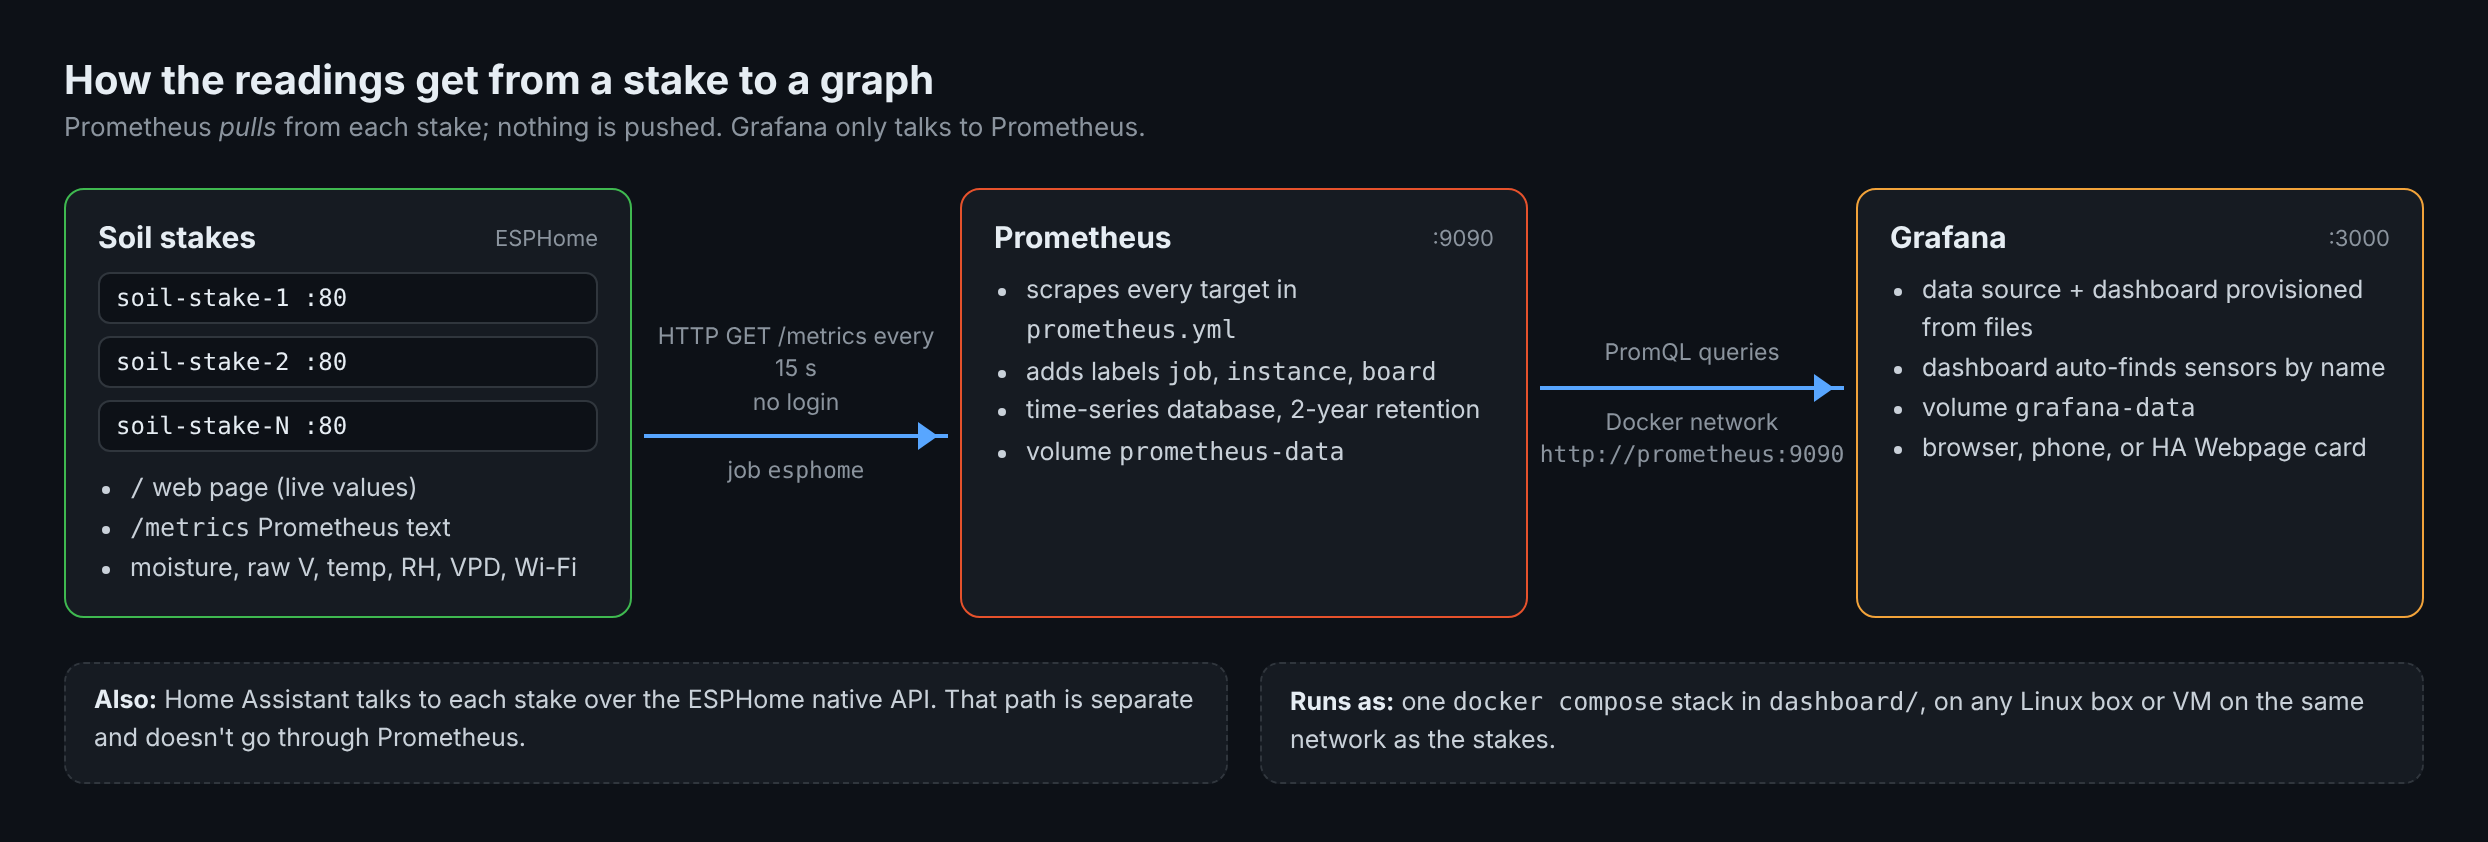
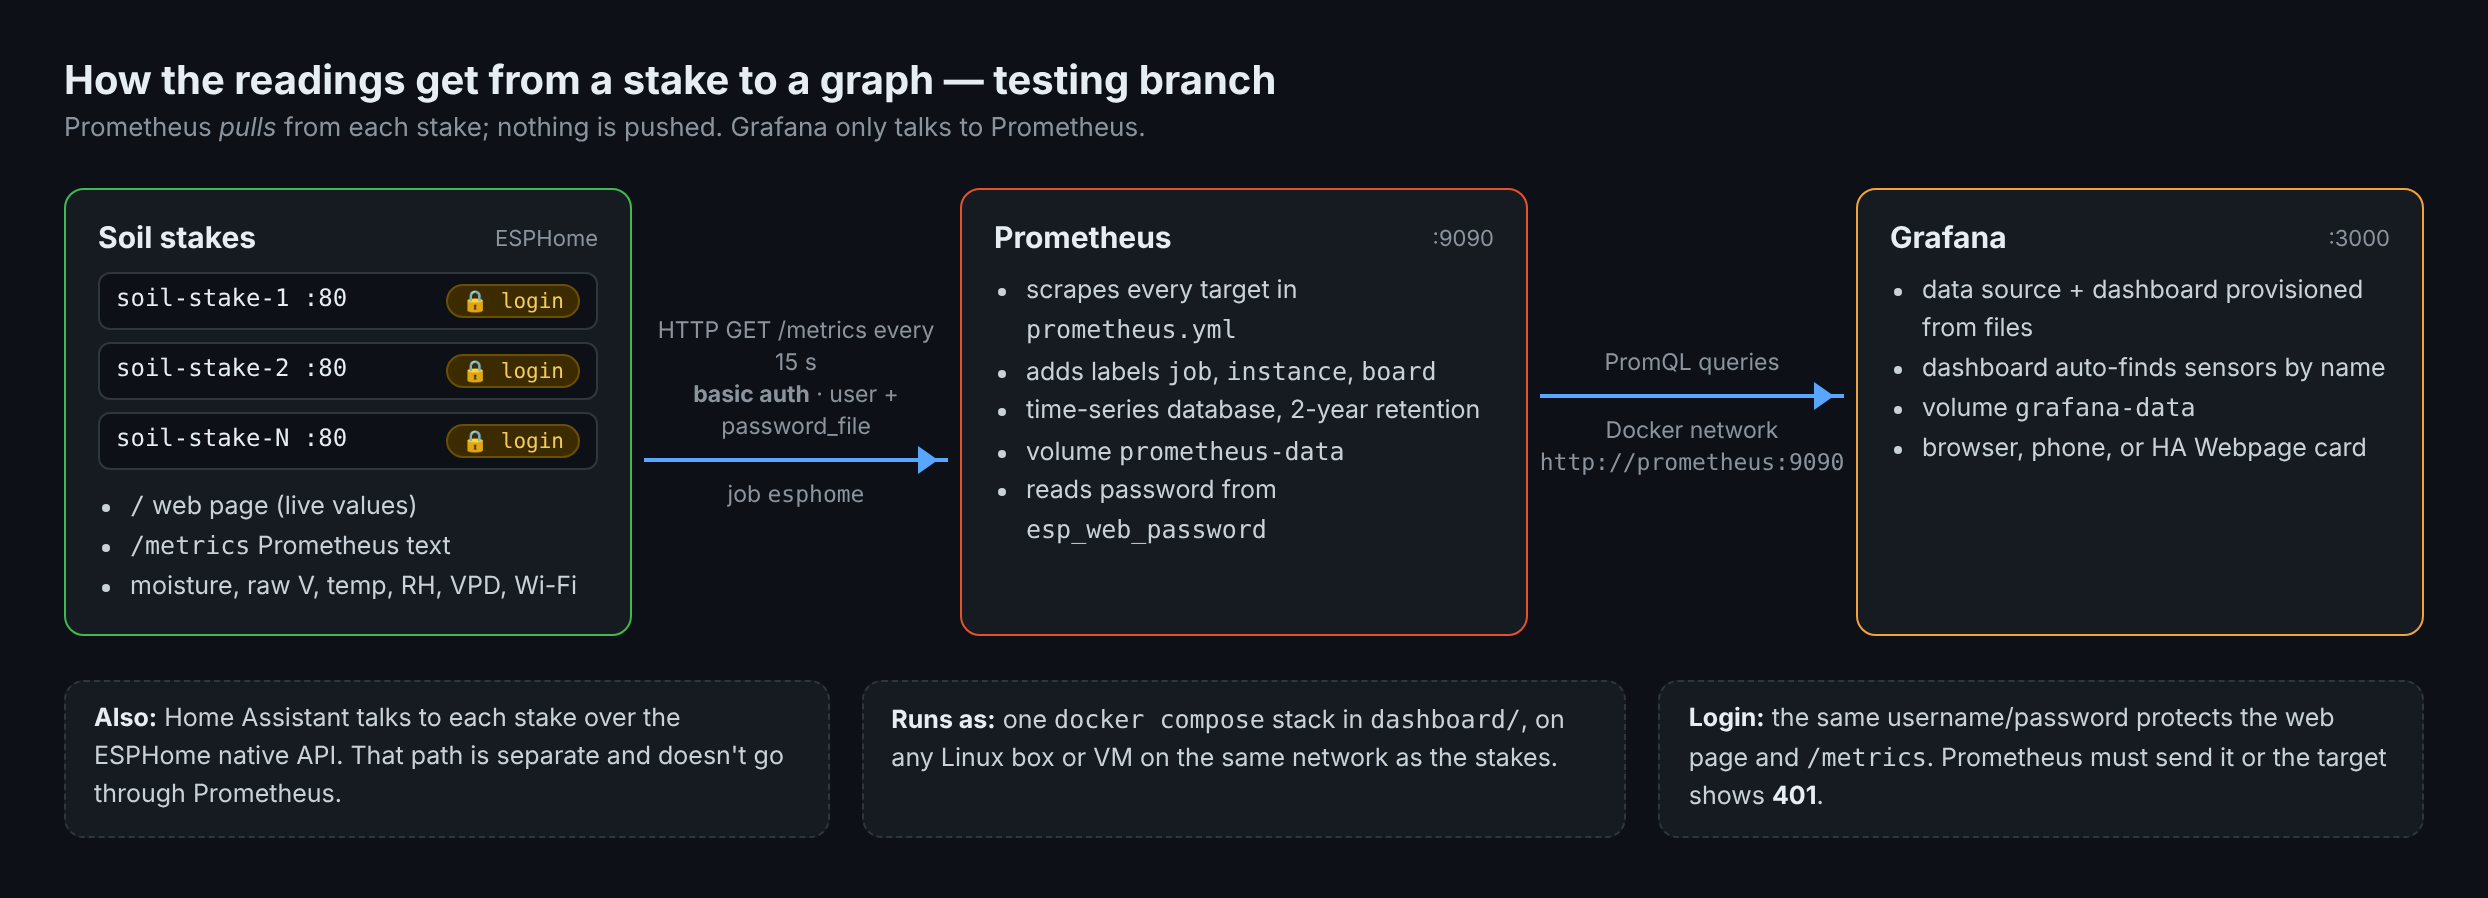
README (testing): document board login alongside Prometheus + Grafana
- Board login section: how it works, rollout order, hand checks,
  password changes; scrape config shows basic_auth + password_file
- Security notes, maintenance and troubleshooting cover 401 and the
  missing password file case
- Testing images: data flow with login, target health showing a 401
- Default login username changed from "grow" to "esp"

Claude-Session: https://claude.ai/code/session_01H1o7ttPdKKmLaGabGhFjTJ

diff --git a/README.md b/README.md
@@ -3,7 +3,7 @@
 > **This is the `testing` branch.** It holds changes that are written but not yet running on the stakes or the dashboard server. `main` matches what's deployed right now. To see exactly what's new here, compare the branches: [`main...testing`](../../compare/main...testing). Once a change is flashed and checked on real hardware, it gets merged into `main` with a pull request.
 >
 > **In testing now**
-> - **Board login:** the stake web page and `/metrics` require a username and password (`web_username` / `web_password` in `secrets.yaml`, HTTP basic auth). Prometheus logs in using a password file. Setup and checks are in [`dashboard/SETUP.md`](dashboard/SETUP.md#board-login-web-page--metrics).
+> - **Board login:** the stake web page and `/metrics` require a username and password (`web_username` / `web_password` in `secrets.yaml`, HTTP basic auth). Prometheus logs in using a password file. How it works, setup and checks: [Board login](#board-login-testing) below and [`dashboard/SETUP.md`](dashboard/SETUP.md#board-login-web-page--metrics).
 
 Wi-Fi soil moisture stakes. Each stake is a small board with an ESP32-C3, a capacitive soil probe and an AHT10 temperature/humidity sensor in a 3D printed case. Push it into the soil like a plant marker and plug in a USB cable. It reports soil moisture, temperature, humidity and VPD over Wi-Fi to ESPHome / Home Assistant and Prometheus, and the included Grafana stack graphs it.
 
@@ -11,7 +11,7 @@ Wi-Fi soil moisture stakes. Each stake is a small board with an ESP32-C3, a capa
 
 ![stake board in the case, KiCad 3D models](docs/images/kicad-3d.png)
 
-**Contents:** [What's in here](#whats-in-here) · [The stake](#the-stake) · [Setup](#setup) · [Calibrating](#calibrating) · [Data logging: Prometheus + Grafana](#data-logging-prometheus--grafana) ([Prometheus](#prometheus) · [Grafana](#grafana) · [Troubleshooting](#troubleshooting)) · [VPD](#vpd) · [Breadboard testing](#testing-on-a-breadboard)
+**Contents:** [What's in here](#whats-in-here) · [The stake](#the-stake) · [Setup](#setup) · [Calibrating](#calibrating) · [Data logging: Prometheus + Grafana](#data-logging-prometheus--grafana) ([Prometheus](#prometheus) · [Grafana](#grafana) · [Board login](#board-login-testing) · [Troubleshooting](#troubleshooting)) · [VPD](#vpd) · [Breadboard testing](#testing-on-a-breadboard)
 
 ---
 
@@ -130,7 +130,7 @@ The probe voltage goes **down** as the soil gets wetter. On the stake you're rea
 
 The stakes don't store any history themselves. A small Docker Compose stack in `dashboard/` does that:
 
-- **Prometheus** visits every stake every 15 seconds, reads its current values from `http://<stake>/metrics`, and keeps them in a time-series database for 2 years.
+- **Prometheus** visits every stake every 15 seconds, logs in, reads its current values from `http://<stake>/metrics`, and keeps them in a time-series database for 2 years.
 - **Grafana** reads from Prometheus and draws the dashboard: current values at the top, history graphs below.
 
 ![How readings flow from a stake to Prometheus to Grafana](docs/images/data-flow.png)
@@ -142,7 +142,8 @@ Prometheus *pulls* from the stakes. A stake never sends data anywhere on its own
 | File | What it does |
 |---|---|
 | `docker-compose.yml` | Runs Prometheus (port 9090) and Grafana (port 3000), with a named volume for each so data survives restarts and image updates |
-| `prometheus/prometheus.yml` | Scrape settings and the list of stakes to read |
+| `prometheus/prometheus.yml` | Scrape settings, the board login, and the list of stakes to read |
+| `prometheus/esp_web_password` | The board password Prometheus logs in with. You create it on the server; it's gitignored. `esp_web_password.example` shows the format |
 | `grafana/provisioning/datasources/prometheus.yml` | Connects Grafana to Prometheus automatically (no clicking through the UI) |
 | `grafana/provisioning/dashboards/dashboards.yml` | Tells Grafana to load every dashboard JSON in `grafana/dashboards/` |
 | `grafana/dashboards/*.json` | The dashboard itself |
@@ -154,6 +155,8 @@ Prometheus *pulls* from the stakes. A stake never sends data anywhere on its own
 cd dashboard
 nano docker-compose.yml          # set GF_SECURITY_ADMIN_PASSWORD (default is "changeme")
 nano prometheus/prometheus.yml   # one target per stake, see below
+printf '%s' 'your-long-password' > prometheus/esp_web_password   # same as web_password on the stakes
+chmod 644 prometheus/esp_web_password
 docker compose up -d
 ```
 
@@ -166,10 +169,10 @@ Any Linux machine, VM or container host on the same network as the stakes works.
 
 ### What a stake sends
 
-With `web_server:` and `prometheus:` in the firmware, each stake serves its sensor values as plain text at `/metrics`. You can open it in a browser or `curl` it:
+With `web_server:` and `prometheus:` in the firmware, each stake serves its sensor values as plain text at `/metrics`, behind the board login. You can open it in a browser (it asks for the username and password) or `curl` it with `-u`:
 
 ```text
-$ curl http://192.168.1.XXX/metrics
+$ curl -u esp:your-long-password http://192.168.1.XXX/metrics
 #TYPE esphome_sensor_value gauge
 #TYPE esphome_sensor_failed gauge
 esphome_sensor_value{id="probe_raw",name="Plant 1 raw",unit="V"} 1.455
@@ -207,6 +210,9 @@ global:
 scrape_configs:
   - job_name: esphome
     metrics_path: /metrics
+    basic_auth:                 # the board login, sent on every scrape
+      username: esp             # must match web_username on the stakes
+      password_file: /etc/prometheus/esp_web_password
     static_configs:
       - targets:
           - 192.168.1.XXX:80    # the stake's IP and web_server port
@@ -214,6 +220,7 @@ scrape_configs:
           board: soil-stake-1   # extra label so you can tell stakes apart
 ```
 
+- **`basic_auth`** applies to every stake in the job, so all stakes share one username and password. Stakes still on firmware without a login just ignore it.
 - **One `targets` block per stake.** The `board` label is added to every value from that stake, which makes queries and graphs easier to read.
 - **Give every stake a fixed IP** (a DHCP reservation in your router). Prometheus has no way to find a stake whose address changed.
 - **After editing the file**, apply it with `docker compose restart prometheus`. A restart doesn't lose any data.
@@ -224,9 +231,9 @@ Prometheus also adds two labels on its own: `job="esphome"` and `instance="<ip>:
 
 Open `http://<server-ip>:9090/targets` (**Status → Target health**). Every stake should be **UP**, with a recent "Last scrape" time.
 
-![Prometheus target health page with three stakes UP](docs/images/prometheus-targets.png)
+![Prometheus target health page: two stakes UP, one DOWN with 401 Unauthorized](docs/images/prometheus-targets.png)
 
-If a stake shows **DOWN**, the error under it says why. The usual causes are in [Troubleshooting](#troubleshooting).
+If a stake shows **DOWN**, the error under it says why. In the screenshot (sample data), stake 3 has a different password from the one Prometheus is sending, so it's rejected with **401 Unauthorized** while the other two log in fine. The usual causes are in [Troubleshooting](#troubleshooting).
 
 #### Querying
 
@@ -326,9 +333,53 @@ So as soon as Prometheus is reading a new stake, its moisture, temperature, humi
 
 More detail is in [`dashboard/SETUP.md`](dashboard/SETUP.md).
 
+### Board login (testing)
+
+Each stake's web page and `/metrics` sit behind one username and password, set in ESPHome's `secrets.yaml`:
+
+```yaml
+# secrets.yaml (next to the firmware, gitignored)
+web_username: "esp"
+web_password: "your-long-password"
+```
+
+```yaml
+# firmware/soil-stake.yaml
+web_server:
+  port: 80
+  auth:
+    username: !secret web_username
+    password: !secret web_password
+    type: basic
+```
+
+**How it works**
+
+- The login covers everything the web server serves: the live web page *and* `/metrics`. That's why Prometheus has to log in too.
+- Prometheus sends the username from `prometheus.yml` and reads the password from `prometheus/esp_web_password`, which `docker-compose.yml` mounts into the container. The password never goes in git.
+- Every stake uses the same login, because one scrape job sends one set of credentials.
+- **`type: basic` is required.** Prometheus only does basic auth. ESPHome currently defaults to basic, but the default switches to digest in ESPHome 2027.1, so the firmware sets it explicitly.
+
+**Rolling it out** (order matters)
+
+1. Add `web_username` / `web_password` to ESPHome's `secrets.yaml`.
+2. On the server, create `prometheus/esp_web_password` with the same password, `chmod 644` it, and run `docker compose up -d --force-recreate prometheus`. Create the file *before* the container starts: if it's missing, Docker creates a folder with that name and every scrape fails.
+3. OTA the stakes one at a time. Boards without a login ignore the credentials, so nothing breaks while some stakes are updated and some aren't.
+4. Check `http://<server-ip>:9090/targets`: every stake should be **UP**.
+
+**Checking a stake by hand**
+
+```bash
+curl -s -o /dev/null -w '%{http_code}\n' http://<stake-ip>/metrics        # 401 = login is on
+curl -s -u esp:your-long-password http://<stake-ip>/metrics | head     # readings come back
+```
+
+**Changing the password:** update `web_password` and OTA every stake, then update `prometheus/esp_web_password` and restart Prometheus. Stakes show **401** in between, so do it in one sitting.
+
 ### Security notes
 
-- **The stakes have no login.** Anyone on your network can open a stake's web page or `/metrics` and see its readings.
+- **The stakes have a login,** but it's HTTP basic auth over plain HTTP. The password is only base64-encoded, so anyone who can capture traffic on your network could read it. It stops casual access to the web page and readings; keep the stakes on a network you trust (a separate VLAN for IoT devices is a good idea).
+- **Use a password that isn't used anywhere else,** since it's stored in plain text in `secrets.yaml` and `esp_web_password`.
 - **Change the Grafana admin password** in `docker-compose.yml` before the first start. It's `changeme` by default.
 - **Prometheus (9090) has no login.** Keep it on your local network.
 
@@ -336,7 +387,8 @@ More detail is in [`dashboard/SETUP.md`](dashboard/SETUP.md).
 
 | Task | How |
 |---|---|
-| Add a stake | Add a `targets` block to `prometheus/prometheus.yml`, then `docker compose restart prometheus` |
+| Add a stake | Flash it with the same `web_username` / `web_password`, add a `targets` block to `prometheus/prometheus.yml`, then `docker compose restart prometheus` |
+| Change the board password | See [Board login](#board-login-testing) |
 | Remove a stake | Delete its block and restart Prometheus. Its old history stays until it ages out |
 | Update Prometheus and Grafana | `docker compose pull && docker compose up -d`. Both images use the `latest` tag; pin a version in `docker-compose.yml` if you'd rather update on your own schedule |
 | Back up the history | Stop Prometheus (`docker compose stop prometheus`), copy the `prometheus-data` volume (on most installs it's named `dashboard_prometheus-data`), then start it again |
@@ -349,6 +401,9 @@ Don't run `docker compose down -v` unless you mean it: `-v` deletes both volumes
 | Symptom | Likely cause | Fix |
 |---|---|---|
 | Target **DOWN**, "connection refused" or timeout | Stake is off, on a different IP, or not on Wi-Fi | Check the stake's IP in your router and open `http://<ip>/metrics` from the server |
+| Target **DOWN**, "401 Unauthorized" | The stake's password or username doesn't match what Prometheus sends | Compare `web_username` / `web_password` with `prometheus.yml` and `esp_web_password` (no trailing newline; `printf '%s'` avoids one) |
+| Every target **DOWN** with an error about the password file | `esp_web_password` didn't exist when the container started, so Docker made a folder | `docker compose down`, delete the folder, create the file, `docker compose up -d` |
+| Browser asks for a login on the stake's page | Expected on this branch | Use `web_username` / `web_password` |
 | Target **DOWN**, "404 Not Found" | Firmware is missing `prometheus:` | Add `web_server:` and `prometheus:` to the YAML and reflash |
 | Target **UP** but the stake isn't on the dashboard | Sensor names don't contain `moisture`, `temperature`, `humidity`, `vpd` or `raw` | Check the names at `/metrics` |
 | Whole dashboard says "No data" | Grafana can't reach Prometheus | Both containers must be in the same Compose stack; check **Connections → Data sources → Prometheus → Test** |

diff --git a/dashboard/SETUP.md b/dashboard/SETUP.md
@@ -37,7 +37,7 @@ The firmware puts a username/password on each board's web page, and that login a
 
 1. In ESPHome's `secrets.yaml` (the HA add-on's config folder), add:
    ```yaml
-   web_username: "grow"
+   web_username: "esp"
    web_password: "your-long-password"
    ```
    Then flash/OTA each board.
@@ -48,11 +48,11 @@ The firmware puts a username/password on each board's web page, and that login a
    chmod 644 prometheus/esp_web_password   # Prometheus runs as user "nobody" inside the container
    docker compose up -d --force-recreate prometheus
    ```
-   The username in `prometheus/prometheus.yml` (`grow`) must match `web_username`.
+   The username in `prometheus/prometheus.yml` (`esp`) must match `web_username`.
 3. Check it:
    ```bash
    curl -s -o /dev/null -w '%{http_code}\n' http://<board-ip>/metrics              # 401 = login is on
-   curl -s -u grow:your-long-password http://<board-ip>/metrics | head             # metrics come back
+   curl -s -u esp:your-long-password http://<board-ip>/metrics | head             # metrics come back
    ```
    And `http://<server-ip>:9090/targets` should show every board **UP**. A **401** there means the password file doesn't match the board.
 
